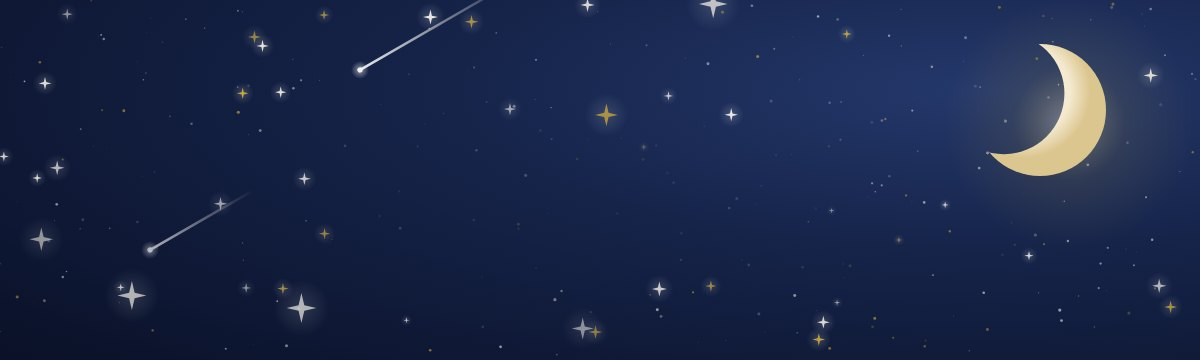
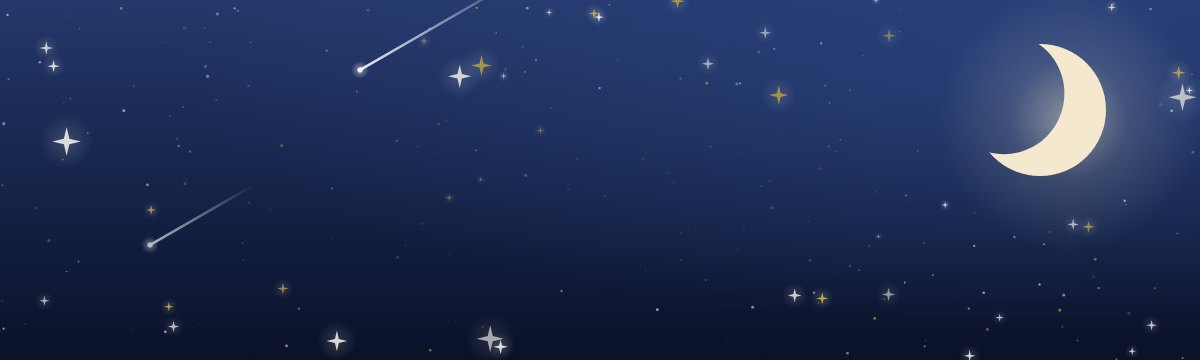
feat(mail): 8 distinct calm e-mail themes (navy, rose, sea, lavender, desert, emerald, winter, light morning)
Each theme has its own sky palette, moon, stars and meteors in the header and a stars-only footer; new
highlight (brand + links on images) and buttonText colours keep text readable on every theme.

diff --git a/deploy/mail/theme-image-generator.html b/deploy/mail/theme-image-generator.html
@@ -1,42 +1,95 @@
-<!doctype html><html><head><meta charset="utf-8"><style>html,body{margin:0;background:#000}</style></head><body>
+<!doctype html>
+<!--
+  E-mail theme image generator. Open with ?theme=<key>&part=header|footer (header 1200x360: moon, stars, meteors;
+  footer 1200x300: stars only). theme-image-generator.js screenshots every theme into
+  frontend/public/email/themes/<key>/{header,footer}.jpg. To add a theme: add an entry to THEMES below and to
+  backend/src/main/resources/mail/themes.json, then run: node deploy/mail/theme-image-generator.js frontend/public/email/themes
+-->
+<html><head><meta charset="utf-8"><style>html,body{margin:0;background:#000}</style></head><body>
 <svg id="s" xmlns="http://www.w3.org/2000/svg"></svg>
 <script>
-const P=new URLSearchParams(location.search);const kind=P.get('kind'),theme=P.get('theme'),part=P.get('part');
-const W=1200,H=part==='header'?360:300;const s=document.getElementById('s');s.setAttribute('width',W);s.setAttribute('height',H);
-const NS='http://www.w3.org/2000/svg';let seed={'crescent-night':7,'full-moon':11,'dawn-glow':23,'golden-midnight':41}[theme]+(part==='footer'?100:0);
-const r=()=>(seed=(seed*16807)%2147483647)/2147483647;
-const add=(t,a,p=s)=>{const e=document.createElementNS(NS,t);for(const k in a)e.setAttribute(k,a[k]);p.appendChild(e);return e};
-const T={
- 'crescent-night':{bg:[['0','#24386b'],['.4','#16244a'],['1','#0a1128']],cx:.82,cy:.25,star:['#f4efe6','#f4efe6','#d4af37'],moon:'crescent',mx:1040,my:110,mr:66,met:2,horizon:null},
- 'full-moon':{bg:[['0','#1c2a55'],['.45','#0e1733'],['1','#070d1f']],cx:.84,cy:.3,star:['#f4efe6','#cfd8ff','#f4efe6'],moon:'full',mx:1050,my:120,mr:70,met:2,horizon:null},
- 'dawn-glow':{bg:[['0','#2a3566'],['.55','#1b2347'],['1','#141a38']],cx:.5,cy:.0,star:['#fff8e8','#f4efe6','#e8c77a'],moon:'crescent',mx:160,my:100,mr:52,met:1,horizon:'#c9962b'},
- 'golden-midnight':{bg:[['0','#1a1a2a'],['.45','#0b0d18'],['1','#05070f']],cx:.15,cy:.25,star:['#d4af37','#e9cf7a','#f4efe6'],moon:'crescent',mx:150,my:115,mr:68,met:3,horizon:null,goldMet:true}
-}[theme];
-const defs=add('defs',{});
-defs.innerHTML=`<radialGradient id="bg" cx="${T.cx}" cy="${T.cy}" r="1.1">${T.bg.map(([o,c])=>`<stop offset="${o}" stop-color="${c}"/>`).join('')}</radialGradient>
-<radialGradient id="glow"><stop offset="0" stop-color="#fff6dc" stop-opacity=".5"/><stop offset=".45" stop-color="#d4af37" stop-opacity=".13"/><stop offset="1" stop-color="#d4af37" stop-opacity="0"/></radialGradient>
-<radialGradient id="sglow"><stop offset="0" stop-color="#fff" stop-opacity=".55"/><stop offset="1" stop-color="#fff" stop-opacity="0"/></radialGradient>
-<radialGradient id="moon" cx=".38" cy=".36"><stop offset="0" stop-color="#fffaf0"/><stop offset=".7" stop-color="#f4e9cf"/><stop offset="1" stop-color="#dcc690"/></radialGradient>
-<linearGradient id="hor" x1="0" y1="0" x2="0" y2="1"><stop offset="0" stop-color="${T.horizon||'#000'}" stop-opacity="0"/><stop offset="1" stop-color="${T.horizon||'#000'}" stop-opacity=".55"/></linearGradient>
-<linearGradient id="met" x1="0" x2="1"><stop offset="0" stop-color="${T.goldMet?'#d4af37':'#f4efe6'}" stop-opacity="0"/><stop offset="1" stop-color="${T.goldMet?'#ffe9a8':'#ffffff'}" stop-opacity=".95"/></linearGradient>
-<mask id="cres2"><rect width="${W}" height="${H}" fill="white"/><circle cx="${T.mx-T.mr*.55}" cy="${T.my-T.mr*.25}" r="${T.mr*.92}" fill="#555"/></mask><mask id="cres"><rect width="${W}" height="${H}" fill="white"/><circle cx="${T.mx-T.mr*.55}" cy="${T.my-T.mr*.25}" r="${T.mr*.92}" fill="black"/></mask>`;
-add('rect',{width:W,height:H,fill:'url(#bg)'});
-if(T.horizon) add('rect',{y:H*.45,width:W,height:H*.55,fill:'url(#hor)'});
-// keep center text area calmer
-const calm=(x,y)=>part==='header'?(x>330&&x<870&&y>120&&y<280):(x>250&&x<950&&y>60&&y<250);
-for(let i=0;i<(part==='header'?260:200);i++){const x=r()*W,y=r()*H;add('circle',{cx:x,cy:y,r:r()*1.3+.3,fill:T.star[i%3],opacity:(calm(x,y)?.35:1)*(r()*.5+.12)})}
-const star=(x,y,R,o,c)=>{const p=[];for(let i=0;i<8;i++){const a=Math.PI/4*i-Math.PI/2,rr=i%2?R*.27:R;p.push((x+Math.cos(a)*rr).toFixed(1)+','+(y+Math.sin(a)*rr).toFixed(1))}
- add('circle',{cx:x,cy:y,r:R*1.9,fill:'url(#sglow)',opacity:o*.35});add('polygon',{points:p.join(' '),fill:c,opacity:o})};
-const nearMoon=(x,y)=>part==='header'&&Math.hypot(x-T.mx,y-T.my)<T.mr*1.7;
-let n=0,N=part==='header'?44:34;while(n<N){const x=r()*W,y=r()*H;if(nearMoon(x,y))continue;const c=calm(x,y);if(c&&r()<.75)continue;n++;
- star(x,y,c?2.5+r()*2:(r()<.16?9+r()*6:3+r()*4.5),c?.45:r()*.45+.5,T.star[Math.floor(r()*3)])}
-if(part==='header'){
- const met=(x,y,l,ang,o)=>{const g=add('g',{transform:`translate(${x},${y}) rotate(${ang})`,opacity:o});add('rect',{x:-l,y:-1.2,width:l,height:2.4,rx:1.2,fill:'url(#met)'},g);add('circle',{r:2.6,fill:'#fff'},g);add('circle',{r:9,fill:'url(#sglow)'},g)};
- const spots=T.mx>600?[[360,70,190,150,.95],[150,250,120,150,.7],[640,40,110,150,.6]]:[[880,80,190,30,.95],[1080,250,130,30,.7],[600,45,110,30,.6]];
- spots.slice(0,T.met).forEach(a=>met(...a));
- add('circle',T.moon==='full'?{cx:T.mx,cy:T.my,r:T.mr*2.6,fill:'url(#glow)'}:{cx:T.mx+T.mr*.45,cy:T.my+T.mr*.2,r:T.mr*1.9,fill:'url(#glow)',opacity:.8});
- if(T.moon==='full'){add('circle',{cx:T.mx,cy:T.my,r:T.mr,fill:'url(#moon)'});
-  [[-.3,-.2,.18],[.25,.15,.22],[-.05,.38,.12],[.35,-.3,.1],[-.4,.25,.09]].forEach(([dx,dy,rr])=>add('circle',{cx:T.mx+dx*T.mr,cy:T.my+dy*T.mr,r:rr*T.mr,fill:'#cdb57e',opacity:.35}));}
- else{add('circle',{cx:T.mx,cy:T.my,r:T.mr,fill:theme==='golden-midnight'?'#e8c96a':'url(#moon)',mask:'url(#cres)'})}
+const THEMES = {
+  // sky: vertical gradient stops (top → bottom); glow: radial light (x, y in 0..1, colour); horizon: warm band at the bottom
+  'crescent-night': { seed: 7,  sky: ['#24386b', '#16244a', '#0a1128'], glow: [.85, .2, '#2e4a8a', .55], stars: ['#f4efe6', '#f4efe6', '#d4af37'],
+                      moon: { kind: 'crescent', x: 1040, y: 110, r: 66, color: '#f4e9cf' }, meteors: 2, meteor: '#ffffff' },
+  'rose-dawn':      { seed: 19, sky: ['#3a3058', '#5e4a7c', '#9a7590'], glow: [.2, .95, '#e9a99a', .4], horizon: '#e8a99c', stars: ['#fff6f2', '#ffe1d6', '#f7d9e4'],
+                      moon: { kind: 'crescent', x: 160, y: 105, r: 50, color: '#fff3ea' }, meteors: 1, meteor: '#fff2ee', starScale: .8 },
+  'sea-breeze':     { seed: 31, sky: ['#0b2f38', '#14505a', '#2f7f7a'], glow: [.82, .3, '#5fb3a8', .35], horizon: '#7cc9bd', stars: ['#eafaf6', '#bfeee4', '#ffffff'],
+                      moon: { kind: 'full', x: 1035, y: 115, r: 62, color: '#f0fbf8', crater: '#bfded6' }, meteors: 2, meteor: '#e8fffa' },
+  'lavender-night': { seed: 43, sky: ['#1f1840', '#3a2c6b', '#5a4592'], glow: [.18, .3, '#9a7fd6', .45], stars: ['#f3eeff', '#d9c9ff', '#ffffff'],
+                      moon: { kind: 'gibbous', x: 170, y: 120, r: 60, color: '#f5eeff' }, meteors: 3, meteor: '#efe6ff' },
+  'desert-dusk':    { seed: 59, sky: ['#2a2240', '#523a52', '#96603f'], glow: [.8, .98, '#e09a5a', .45], horizon: '#e0955a', stars: ['#fff5e8', '#ffe2b8', '#fff5e8'],
+                      moon: { kind: 'crescent', x: 1050, y: 95, r: 52, color: '#fff2df' }, meteors: 1, meteor: '#fff1dc', dunes: '#3a2530', starScale: .85 },
+  'emerald-night':  { seed: 71, sky: ['#123f33', '#0d2e25', '#081d17'], glow: [.15, .25, '#2a6b55', .5], stars: ['#eef5ef', '#d9bc6a', '#d9bc6a'],
+                      moon: { kind: 'crescent', x: 150, y: 115, r: 66, color: '#ead9a0' }, meteors: 2, meteor: '#f3e2a8' },
+  'winter-sky':     { seed: 83, sky: ['#2a3550', '#3d4c69', '#5a6d8c'], glow: [.84, .3, '#a9bcd8', .35], stars: ['#eef3f8', '#d6e2f0', '#ffffff'],
+                      moon: { kind: 'full', x: 1045, y: 118, r: 58, color: '#eef3f8', crater: '#c9d4e2', halo: true }, meteors: 1, meteor: '#f2f7ff' },
+  'calm-morning':   { seed: 97, sky: ['#bcd6ea', '#dde9f3', '#f8efdf'], glow: [.85, .25, '#ffffff', .7], horizon: '#f6dfb8', stars: ['#6f86a8', '#9aaecb', '#c9a35a'],
+                      moon: { kind: 'full', x: 1040, y: 110, r: 54, color: '#fdfdfb', crater: '#c7d3e2', outline: '#9fb3cc' }, meteors: 1, meteor: '#7f95b5', light: true, starScale: .7 },
+};
+const P = new URLSearchParams(location.search);
+const theme = P.get('theme'), part = P.get('part');
+const T = THEMES[theme];
+const W = 1200, H = part === 'header' ? 360 : 300;
+const s = document.getElementById('s'); s.setAttribute('width', W); s.setAttribute('height', H);
+const NS = 'http://www.w3.org/2000/svg';
+let seed = T.seed + (part === 'footer' ? 1000 : 0);
+const r = () => (seed = (seed * 16807) % 2147483647) / 2147483647;
+const add = (t, a, p = s) => { const e = document.createElementNS(NS, t); for (const k in a) e.setAttribute(k, a[k]); p.appendChild(e); return e };
+const sky = part === 'header' ? T.sky : [T.sky[2], T.sky[1], T.sky[0]].map((c, i) => i === 0 ? T.sky[1] : c);
+const defs = add('defs', {});
+defs.innerHTML = `
+<linearGradient id="sky" x1="0" y1="0" x2="0" y2="1">${(part === 'header' ? T.sky : [T.sky[1], T.sky[0], T.sky[0]]).map((c, i, a) => `<stop offset="${i / (a.length - 1)}" stop-color="${c}"/>`).join('')}</linearGradient>
+<radialGradient id="g1" cx="${T.glow[0]}" cy="${T.glow[1]}" r=".7"><stop offset="0" stop-color="${T.glow[2]}" stop-opacity="${T.glow[3]}"/><stop offset="1" stop-color="${T.glow[2]}" stop-opacity="0"/></radialGradient>
+<linearGradient id="hor" x1="0" y1="0" x2="0" y2="1"><stop offset="0" stop-color="${T.horizon || '#000'}" stop-opacity="0"/><stop offset="1" stop-color="${T.horizon || '#000'}" stop-opacity=".5"/></linearGradient>
+<radialGradient id="mglow"><stop offset="0" stop-color="${T.moon.color}" stop-opacity="${T.light ? .9 : .5}"/><stop offset=".45" stop-color="${T.moon.color}" stop-opacity="${T.light ? .35 : .14}"/><stop offset="1" stop-color="${T.moon.color}" stop-opacity="0"/></radialGradient>
+<radialGradient id="sglow"><stop offset="0" stop-color="${T.light ? '#ffffff' : '#ffffff'}" stop-opacity=".5"/><stop offset="1" stop-color="#ffffff" stop-opacity="0"/></radialGradient>
+<radialGradient id="moon" cx=".38" cy=".36"><stop offset="0" stop-color="#ffffff"/><stop offset=".75" stop-color="${T.moon.color}"/><stop offset="1" stop-color="${T.moon.crater || T.moon.color}"/></radialGradient>
+<linearGradient id="met" x1="0" x2="1"><stop offset="0" stop-color="${T.meteor}" stop-opacity="0"/><stop offset="1" stop-color="${T.meteor}" stop-opacity=".95"/></linearGradient>
+<mask id="cut"><rect width="${W}" height="${H}" fill="white"/><circle cx="${T.moon.x + (T.moon.kind === 'gibbous' ? -T.moon.r * 1.25 : -T.moon.r * .55) * (T.moon.x > 600 ? 1 : -1)}" cy="${T.moon.y - T.moon.r * .25}" r="${T.moon.r * (T.moon.kind === 'gibbous' ? 1 : .92)}" fill="black"/></mask>`;
+add('rect', { width: W, height: H, fill: 'url(#sky)' });
+add('rect', { width: W, height: H, fill: 'url(#g1)' });
+if (T.horizon && part === 'header') add('rect', { y: H * .5, width: W, height: H * .5, fill: 'url(#hor)' });
+
+// keep the middle calm: text is written on top of the image
+const calm = (x, y) => part === 'header' ? (x > 300 && x < 900 && y > 110 && y < 290) : (x > 200 && x < 1000 && y > 50 && y < 260);
+const nearMoon = (x, y) => part === 'header' && Math.hypot(x - T.moon.x, y - T.moon.y) < T.moon.r * 1.8;
+const sc = T.starScale || 1;
+for (let i = 0; i < (part === 'header' ? 240 : 190) * sc; i++) {
+  const x = r() * W, y = r() * H; if (nearMoon(x, y)) continue;
+  add('circle', { cx: x, cy: y, r: r() * 1.3 + .3, fill: T.stars[i % 3], opacity: (calm(x, y) ? .35 : 1) * (r() * .5 + (T.light ? .15 : .12)) });
+}
+const star = (x, y, R, o, c) => {
+  const p = []; for (let i = 0; i < 8; i++) { const a = Math.PI / 4 * i - Math.PI / 2, rr = i % 2 ? R * .27 : R; p.push((x + Math.cos(a) * rr).toFixed(1) + ',' + (y + Math.sin(a) * rr).toFixed(1)) }
+  if (!T.light) add('circle', { cx: x, cy: y, r: R * 1.9, fill: 'url(#sglow)', opacity: o * .35 });
+  add('polygon', { points: p.join(' '), fill: c, opacity: o });
+};
+let n = 0; const N = Math.round((part === 'header' ? 42 : 32) * sc);
+while (n < N) {
+  const x = r() * W, y = r() * H; if (nearMoon(x, y)) continue;
+  const c = calm(x, y); if (c && r() < .75) continue; n++;
+  star(x, y, c ? 2.5 + r() * 2 : (r() < .16 ? 9 + r() * 6 : 3 + r() * 4.5), c ? .45 : r() * .45 + (T.light ? .35 : .5), T.stars[Math.floor(r() * 3)]);
+}
+if (part === 'header') {
+  if (T.dunes) {
+    add('path', { d: `M0 ${H} L0 300 C 180 270 320 285 480 305 S 820 270 980 292 S 1150 300 1200 288 L1200 ${H} Z`, fill: T.dunes, opacity: .55 });
+    add('path', { d: `M0 ${H} L0 330 C 220 312 420 322 600 334 S 950 315 1200 326 L1200 ${H} Z`, fill: T.dunes, opacity: .85 });
+  }
+  const met = (x, y, l, ang, o) => { const g = add('g', { transform: `translate(${x},${y}) rotate(${ang})`, opacity: o }); add('rect', { x: -l, y: -1.2, width: l, height: 2.4, rx: 1.2, fill: 'url(#met)' }, g); add('circle', { r: 2.6, fill: T.meteor }, g); if (!T.light) add('circle', { r: 9, fill: 'url(#sglow)' }, g) };
+  const right = T.moon.x > 600;
+  const spots = right ? [[360, 70, 190, 150, .95], [150, 245, 120, 150, .7], [660, 40, 110, 150, .6]] : [[860, 80, 190, 30, .95], [1080, 245, 130, 30, .7], [600, 45, 110, 30, .6]];
+  spots.slice(0, T.meteors).forEach(a => met(...a));
+  const M = T.moon;
+  if (M.halo) add('circle', { cx: M.x, cy: M.y, r: M.r * 1.75, fill: 'none', stroke: M.color, 'stroke-opacity': .22, 'stroke-width': 3 });
+  if (M.kind === 'full') {
+    add('circle', { cx: M.x, cy: M.y, r: M.r * 2.6, fill: 'url(#mglow)' });
+    add('circle', { cx: M.x, cy: M.y, r: M.r, fill: 'url(#moon)' });
+    if (M.outline) add('circle', { cx: M.x, cy: M.y, r: M.r, fill: 'none', stroke: M.outline, 'stroke-opacity': .5, 'stroke-width': 2 });
+    [[-.3, -.2, .18], [.25, .15, .22], [-.05, .38, .12], [.35, -.3, .1], [-.4, .25, .09]].forEach(([dx, dy, rr]) => add('circle', { cx: M.x + dx * M.r, cy: M.y + dy * M.r, r: rr * M.r, fill: M.crater, opacity: .45 }));
+  } else {
+    const off = (M.kind === 'gibbous' ? .2 : .45) * (right ? 1 : -1);
+    add('circle', { cx: M.x + M.r * off, cy: M.y + M.r * .15, r: M.r * 2, fill: 'url(#mglow)' });
+    add('circle', { cx: M.x, cy: M.y, r: M.r, fill: M.color, mask: 'url(#cut)' });
+  }
 }
 </script></body></html>

diff --git a/backend/src/main/resources/templates/mail/_layout.html b/backend/src/main/resources/templates/mail/_layout.html
@@ -55,7 +55,7 @@
               <tr>
                 <td align="center" valign="middle" height="180" class="px" style="height:180px;padding:0 32px;text-align:center;">
                   <div th:text="${brandName}"
-                       th:style="|font-family:${font};font-size:28px;line-height:1.35;font-weight:700;color:${theme.accent};text-align:center;|">Brand</div>
+                       th:style="|font-family:${font};font-size:28px;line-height:1.35;font-weight:700;color:${theme.highlight};text-align:center;|">Brand</div>
                   <div th:text="${tagline}"
                        th:style="|margin-top:8px;font-family:${font};font-size:14px;line-height:1.6;color:${theme.headerText};text-align:center;|">Tagline</div>
                 </td>
@@ -83,17 +83,17 @@
                     th:style="|padding:26px 32px;font-family:${font};font-size:13px;line-height:1.8;color:${theme.footerText};text-align:center;|">
                   <div>
                     <a th:href="${youtubeUrl}" th:text="#{mail.footer.youtube}" target="_blank"
-                       th:style="|font-family:${font};color:${theme.accent};text-decoration:none;font-weight:600;|">YouTube</a>
+                       th:style="|font-family:${font};color:${theme.highlight};text-decoration:none;font-weight:600;|">YouTube</a>
                   </div>
                   <div style="margin-top:6px;">
                     <span th:text="#{mail.footer.website}">Please visit our website</span>
                     <a th:href="${frontendUrl}" th:text="${siteHost}" dir="ltr" target="_blank"
-                       th:style="|font-family:${font};color:${theme.accent};text-decoration:none;font-weight:600;|">example.com</a>
+                       th:style="|font-family:${font};color:${theme.highlight};text-decoration:none;font-weight:600;|">example.com</a>
                   </div>
                   <div th:if="${!#strings.isEmpty(supportEmail)}" style="margin-top:6px;">
                     <span th:text="#{mail.footer.support}">Support</span>
                     <a th:href="${'mailto:' + supportEmail}" th:text="${supportEmail}" dir="ltr"
-                       th:style="|font-family:${font};color:${theme.accent};text-decoration:none;|">support@example.com</a>
+                       th:style="|font-family:${font};color:${theme.highlight};text-decoration:none;|">support@example.com</a>
                   </div>
                   <div th:if="${showAccountNote}" th:text="#{mail.footer.note}"
                        th:style="|margin-top:12px;font-family:${font};font-size:12px;line-height:1.7;color:${theme.footerText};opacity:0.8;|">Note</div>
@@ -121,7 +121,7 @@
         <tr>
           <td align="center" th:attr="bgcolor=${theme.accent}" th:style="|border-radius:999px;background-color:${theme.accent};|">
             <a th:href="${url}" th:text="${label}" target="_blank"
-               th:style="|display:inline-block;padding:14px 38px;font-family:${cf};font-size:16px;line-height:1.2;font-weight:600;color:${theme.bodyText};text-decoration:none;border-radius:999px;|">Open</a>
+               th:style="|display:inline-block;padding:14px 38px;font-family:${cf};font-size:16px;line-height:1.2;font-weight:600;color:${theme.buttonText};text-decoration:none;border-radius:999px;|">Open</a>
           </td>
         </tr>
       </table>

diff --git a/deploy/mail/theme-image-generator.js b/deploy/mail/theme-image-generator.js
@@ -1,8 +1,26 @@
-const {chromium}=require('playwright');const path=require('path');const fs=require('fs');
-const OUT=process.argv[2];(async()=>{const b=await chromium.launch({executablePath:'/opt/pw-browsers/chromium'}).catch(()=>chromium.launch());
-const p=await b.newPage({viewport:{width:1200,height:360}});
-for(const th of ['crescent-night','full-moon','dawn-glow','golden-midnight'])for(const part of ['header','footer']){
- await p.goto('file://'+path.join(__dirname,'gen.html')+`?theme=${th}&part=${part}`);await p.waitForTimeout(150);
- const d=path.join(OUT,th);fs.mkdirSync(d,{recursive:true});
- await (await p.$('svg')).screenshot({path:path.join(d,part+'.jpg'),type:'jpeg',quality:86});}
-await b.close()})();
+// Renders every theme of backend/src/main/resources/mail/themes.json into <out>/<key>/{header,footer}.jpg
+// using theme-image-generator.html. usage: node deploy/mail/theme-image-generator.js frontend/public/email/themes
+// (needs the playwright package and a Chromium; set CHROMIUM=/path/to/chromium if it is not the default one)
+const { chromium } = require('playwright')
+const path = require('path')
+const fs = require('fs')
+
+const OUT = path.resolve(process.argv[2] || 'frontend/public/email/themes')
+const REGISTRY = path.join(__dirname, '../../backend/src/main/resources/mail/themes.json')
+const keys = JSON.parse(fs.readFileSync(REGISTRY, 'utf8')).map((t) => t.key)
+
+;(async () => {
+  const browser = await chromium.launch(process.env.CHROMIUM ? { executablePath: process.env.CHROMIUM } : {})
+  const page = await browser.newPage({ viewport: { width: 1200, height: 360 } })
+  for (const key of keys) {
+    for (const part of ['header', 'footer']) {
+      await page.goto('file://' + path.join(__dirname, 'theme-image-generator.html') + `?theme=${key}&part=${part}`)
+      await page.waitForTimeout(150)
+      const dir = path.join(OUT, key)
+      fs.mkdirSync(dir, { recursive: true })
+      await (await page.$('svg')).screenshot({ path: path.join(dir, part + '.jpg'), type: 'jpeg', quality: 86 })
+      console.log(`${key}/${part}.jpg`)
+    }
+  }
+  await browser.close()
+})()

diff --git a/frontend/src/mocks/data.ts b/frontend/src/mocks/data.ts
@@ -201,9 +201,13 @@ export const MAIL_TEMPLATES = ['magic-link', ...MAIL_EVENTS] as const
 /** The e-mail theme registry (backend classpath mail/themes.json). Image paths are on the site. */
 export const MAIL_THEMES: Omit<T.MailThemeDto, 'headerImageUrl' | 'footerImageUrl' | 'usedByDefault'>[] = [
   { key: 'crescent-night', nameAr: 'ليلة الهلال', nameEn: 'Crescent night', pageBg: '#0A1128', cardBg: '#F4EFE6', accent: '#D4AF37' },
-  { key: 'full-moon', nameAr: 'البدر', nameEn: 'Full moon', pageBg: '#070D1F', cardBg: '#F4EFE6', accent: '#D4AF37' },
-  { key: 'dawn-glow', nameAr: 'نور الفجر', nameEn: 'Dawn light', pageBg: '#1B2347', cardBg: '#FBF7EF', accent: '#C9962B' },
-  { key: 'golden-midnight', nameAr: 'منتصف الليل الذهبي', nameEn: 'Golden midnight', pageBg: '#05070F', cardBg: '#F4EFE6', accent: '#D4AF37' },
+  { key: 'rose-dawn', nameAr: 'فجر وردي', nameEn: 'Rose dawn', pageBg: '#3E3352', cardBg: '#FBF4F2', accent: '#B76E79' },
+  { key: 'sea-breeze', nameAr: 'نسيم البحر', nameEn: 'Sea breeze', pageBg: '#0A2A33', cardBg: '#F1F8F6', accent: '#2E8C83' },
+  { key: 'lavender-night', nameAr: 'ليل الخزامى', nameEn: 'Lavender night', pageBg: '#1E1739', cardBg: '#F6F2FB', accent: '#8C6CC8' },
+  { key: 'desert-dusk', nameAr: 'غروب الصحراء', nameEn: 'Desert dusk', pageBg: '#2E2333', cardBg: '#FBF5EC', accent: '#B5713F' },
+  { key: 'emerald-night', nameAr: 'ليلة الزمرد', nameEn: 'Emerald night', pageBg: '#0A221B', cardBg: '#F2F6F1', accent: '#B8963F' },
+  { key: 'winter-sky', nameAr: 'سماء الشتاء', nameEn: 'Winter sky', pageBg: '#222C3E', cardBg: '#F3F6F9', accent: '#5F7FA8' },
+  { key: 'calm-morning', nameAr: 'صباح هادئ', nameEn: 'Calm morning', pageBg: '#E6EEF5', cardBg: '#FFFFFF', accent: '#B8862B' },
 ]
 
 db.settings = {

diff --git a/backend/src/test/java/com/saadat/mail/MailThemesIntegrationTest.java b/backend/src/test/java/com/saadat/mail/MailThemesIntegrationTest.java
@@ -43,7 +43,7 @@ class MailThemesIntegrationTest extends IntegrationTestBase {
     @Test
     void registryHasTheFourThemesAndEveryTemplateHasASeededThemeSetting() {
         assertThat(mailThemes.all()).extracting(MailTheme::key)
-                .containsExactly("crescent-night", "full-moon", "dawn-glow", "golden-midnight");
+                .containsExactly("crescent-night", "rose-dawn", "sea-breeze", "lavender-night", "desert-dusk", "emerald-night", "winter-sky", "calm-morning");
         assertThat(mailThemes.defaultKey()).isEqualTo("crescent-night");
         assertThat(settingsService.getString(SettingKeys.MAIL_THEME_DEFAULT)).isEqualTo("crescent-night");
         for (String template : MailTemplates.ALL) {
@@ -56,19 +56,19 @@ class MailThemesIntegrationTest extends IntegrationTestBase {
     void themeResolutionFollowsTemplateThenDefaultThenRegistry() {
         String key = SettingKeys.mailTheme(MailTemplates.WELCOME);
         try {
-            settingsService.put(key, "dawn-glow", null);
-            assertThat(mailThemeService.resolve(MailTemplates.WELCOME).key()).isEqualTo("dawn-glow");
+            settingsService.put(key, "rose-dawn", null);
+            assertThat(mailThemeService.resolve(MailTemplates.WELCOME).key()).isEqualTo("rose-dawn");
 
             settingsService.put(key, "no-such-theme", null);
-            settingsService.put(SettingKeys.MAIL_THEME_DEFAULT, "full-moon", null);
-            assertThat(mailThemeService.resolve(MailTemplates.WELCOME).key()).isEqualTo("full-moon");
+            settingsService.put(SettingKeys.MAIL_THEME_DEFAULT, "sea-breeze", null);
+            assertThat(mailThemeService.resolve(MailTemplates.WELCOME).key()).isEqualTo("sea-breeze");
 
             settingsService.put(SettingKeys.MAIL_THEME_DEFAULT, "also-unknown", null);
             assertThat(mailThemeService.resolve(MailTemplates.WELCOME).key()).isEqualTo("crescent-night");
 
             // a preview override wins when it is a known theme
-            assertThat(mailThemeService.resolve(MailTemplates.WELCOME, "golden-midnight").key())
-                    .isEqualTo("golden-midnight");
+            assertThat(mailThemeService.resolve(MailTemplates.WELCOME, "emerald-night").key())
+                    .isEqualTo("emerald-night");
             assertThat(mailThemeService.resolve(MailTemplates.WELCOME, "nope").key()).isEqualTo("crescent-night");
         } finally {
             settingsService.put(key, "", null);
@@ -80,11 +80,11 @@ class MailThemesIntegrationTest extends IntegrationTestBase {
     void renderedMailUsesTheThemeColoursImagesAndFooterLinks() {
         String key = SettingKeys.mailTheme(MailTemplates.WELCOME);
         try {
-            settingsService.put(key, "dawn-glow", null);
+            settingsService.put(key, "rose-dawn", null);
             RenderedMail ar = mailService.render(MailTemplates.WELCOME, Locale.AR, Map.of("name", "Sara", "link", "/me"));
             assertThat(ar.html())
-                    .contains(FRONTEND + "/email/themes/dawn-glow/header.jpg")
-                    .contains(FRONTEND + "/email/themes/dawn-glow/footer.jpg")
+                    .contains(FRONTEND + "/email/themes/rose-dawn/header.jpg")
+                    .contains(FRONTEND + "/email/themes/rose-dawn/footer.jpg")
                     .contains("#1B2347")             // pageBg
                     .contains("#FBF7EF")             // cardBg
                     .contains("#C9962B")             // accent (brand + button)
@@ -161,7 +161,7 @@ class MailThemesIntegrationTest extends IntegrationTestBase {
         String auth = bearer(interpreter);
         try {
             mvc.perform(put(ApiPaths.Admin.MAIL_TEMPLATES + "/no-such-template/theme").header(HttpHeaders.AUTHORIZATION, auth)
-                            .contentType(MediaType.APPLICATION_JSON).content("{\"theme\":\"full-moon\"}"))
+                            .contentType(MediaType.APPLICATION_JSON).content("{\"theme\":\"sea-breeze\"}"))
                     .andExpect(status().isBadRequest())
                     .andExpect(content().contentTypeCompatibleWith(MediaType.APPLICATION_PROBLEM_JSON))
                     .andExpect(jsonPath("$.code").value("UNKNOWN_TEMPLATE"));
@@ -172,12 +172,12 @@ class MailThemesIntegrationTest extends IntegrationTestBase {
                     .andExpect(jsonPath("$.code").value("UNKNOWN_THEME"));
 
             mvc.perform(put(ApiPaths.Admin.MAIL_TEMPLATES + "/welcome/theme").header(HttpHeaders.AUTHORIZATION, auth)
-                            .contentType(MediaType.APPLICATION_JSON).content("{\"theme\":\"full-moon\"}"))
+                            .contentType(MediaType.APPLICATION_JSON).content("{\"theme\":\"sea-breeze\"}"))
                     .andExpect(status().isOk())
                     .andExpect(jsonPath("$.template").value("welcome"))
-                    .andExpect(jsonPath("$.theme").value("full-moon"))
+                    .andExpect(jsonPath("$.theme").value("sea-breeze"))
                     .andExpect(jsonPath("$.inherited").value(false));
-            assertThat(settingsService.getString(SettingKeys.mailTheme(MailTemplates.WELCOME))).isEqualTo("full-moon");
+            assertThat(settingsService.getString(SettingKeys.mailTheme(MailTemplates.WELCOME))).isEqualTo("sea-breeze");
 
             // blank = follow the default again
             mvc.perform(put(ApiPaths.Admin.MAIL_TEMPLATES + "/welcome/theme").header(HttpHeaders.AUTHORIZATION, auth)
@@ -192,10 +192,10 @@ class MailThemesIntegrationTest extends IntegrationTestBase {
                     .andExpect(jsonPath("$.code").value("UNKNOWN_THEME"));
 
             mvc.perform(put(ApiPaths.Admin.MAIL_THEME_DEFAULT).header(HttpHeaders.AUTHORIZATION, auth)
-                            .contentType(MediaType.APPLICATION_JSON).content("{\"theme\":\"golden-midnight\"}"))
+                            .contentType(MediaType.APPLICATION_JSON).content("{\"theme\":\"emerald-night\"}"))
                     .andExpect(status().isOk())
-                    .andExpect(jsonPath("$.theme").value("golden-midnight"));
-            assertThat(mailThemeService.resolve(MailTemplates.WELCOME).key()).isEqualTo("golden-midnight");
+                    .andExpect(jsonPath("$.theme").value("emerald-night"));
+            assertThat(mailThemeService.resolve(MailTemplates.WELCOME).key()).isEqualTo("emerald-night");
         } finally {
             settingsService.put(SettingKeys.mailTheme(MailTemplates.WELCOME), "", null);
             settingsService.put(SettingKeys.MAIL_THEME_DEFAULT, "crescent-night", null);
@@ -209,14 +209,14 @@ class MailThemesIntegrationTest extends IntegrationTestBase {
         MvcResult en = mvc.perform(get(ApiPaths.Admin.MAIL_PREVIEW).header(HttpHeaders.AUTHORIZATION, bearer(interpreter))
                         .accept(MediaType.TEXT_HTML)
                         .param("template", MailTemplates.DREAM_RECEIVED)
-                        .param("theme", "full-moon")
+                        .param("theme", "sea-breeze")
                         .param("locale", "en"))
                 .andExpect(status().isOk())
                 .andExpect(content().contentTypeCompatibleWith(MediaType.TEXT_HTML))
                 .andReturn();
         String enHtml = en.getResponse().getContentAsString(StandardCharsets.UTF_8);
         assertThat(enHtml)
-                .contains(FRONTEND + "/email/themes/full-moon/header.jpg")
+                .contains(FRONTEND + "/email/themes/sea-breeze/header.jpg")
                 .contains("#070D1F")
                 .contains("Watch our latest videos on our YouTube channel")
                 .contains("Ahmed")

diff --git a/backend/src/main/java/com/saadat/mail/MailTheme.java b/backend/src/main/java/com/saadat/mail/MailTheme.java
@@ -4,7 +4,9 @@ package com.saadat.mail;
  * One e-mail theme from the classpath registry {@code mail/themes.json}. A theme changes only the header,
  * the page background and the footer of an e-mail (images + colours); the wording of every template stays
  * the same. Image values are paths on the public site (e.g. {@code /email/themes/crescent-night/header.jpg});
- * {@link MailThemeService#absoluteUrl(String)} turns them into absolute URLs.
+ * {@link MailThemeService#absoluteUrl(String)} turns them into absolute URLs. {@code highlight} is the light/strong
+ * colour for the brand name and links written on the header/footer images; {@code buttonText} is the text colour on
+ * the accent button. Both are optional (fallbacks: accent / bodyText).
  */
 public record MailTheme(
         String key,
@@ -17,5 +19,7 @@ public record MailTheme(
         String bodyText,
         String accent,
         String headerText,
-        String footerText) {
+        String footerText,
+        String highlight,
+        String buttonText) {
 }

diff --git a/backend/src/main/java/com/saadat/mail/MailThemeView.java b/backend/src/main/java/com/saadat/mail/MailThemeView.java
@@ -63,6 +63,20 @@ public final class MailThemeView {
         return theme.footerText();
     }
 
+    /** Colour of the brand name and links on the header/footer images (falls back to the accent). */
+    public String getHighlight() {
+        return isBlank(theme.highlight()) ? theme.accent() : theme.highlight();
+    }
+
+    /** Text colour on the accent button (falls back to the body text colour). */
+    public String getButtonText() {
+        return isBlank(theme.buttonText()) ? theme.bodyText() : theme.buttonText();
+    }
+
+    private static boolean isBlank(String value) {
+        return value == null || value.isBlank();
+    }
+
     public String getHeaderImageUrl() {
         return headerImageUrl;
     }
